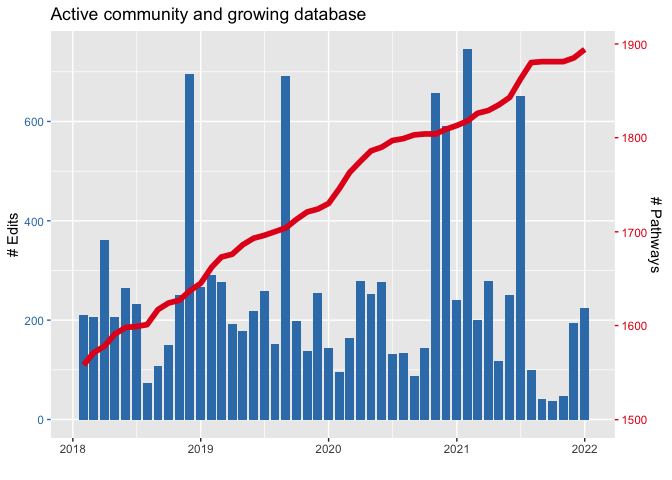
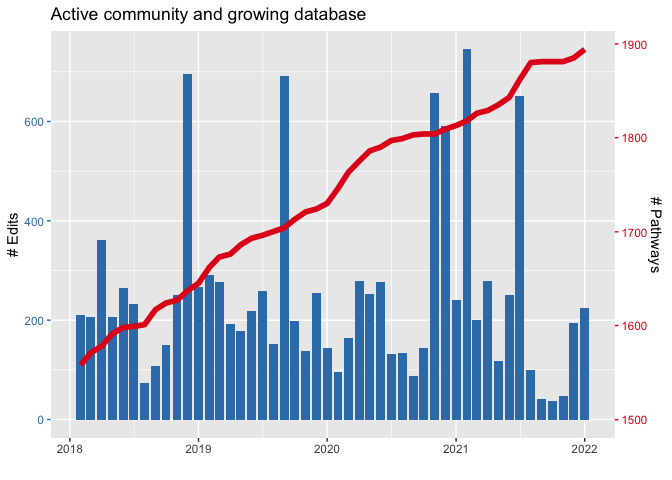
x-axis variables for stats

diff --git a/_rmd/stats.md b/_rmd/stats.md
@@ -1,7 +1,6 @@
 ---
 title: stats
 ---
-
 # WikiPathways Stats
 
 This R notebooks prepares figures to summarize WikiPathways activity.
@@ -68,6 +67,10 @@ Next, let’s plot a time series
 # RColorBrewer::display.brewer.all()
 bcols <- RColorBrewer::brewer.pal(3,"Set1")
 
+# date range for x-axis
+Ym.end <- wpid.all.df.cnts[nrow(wpid.all.df.cnts),1]
+Ym.start <- Ym.end - 400 # 4 years
+  
 # scaling for primary and secondary y-axes
 ylim.prim <- c(0, max(combo.df$edits, na.rm = T)) # range for edits
 ylim.sec <- c(min(combo.df$pathways, na.rm = T), max(combo.df$pathways, na.rm = T))    # range for pathways
@@ -81,7 +84,7 @@ p <- ggplot(combo.df) +
             color = bcols[1], size = 2) +
   scale_x_date(date_breaks = "1 year", date_labels = "%Y",
                name = "",
-               limits = c(as.Date(strptime("2018","%Y")),as.Date(strptime("202201","%Y%m")))) +
+               limits = c(as.Date(strptime(Ym.start,"%Y%m")),as.Date(strptime(Ym.end,"%Y%m")))) +
   scale_y_continuous(name="# Edits", 
                      limits = ylim.prim,
                      sec.axis=sec_axis(~ (. - a)/b, 
